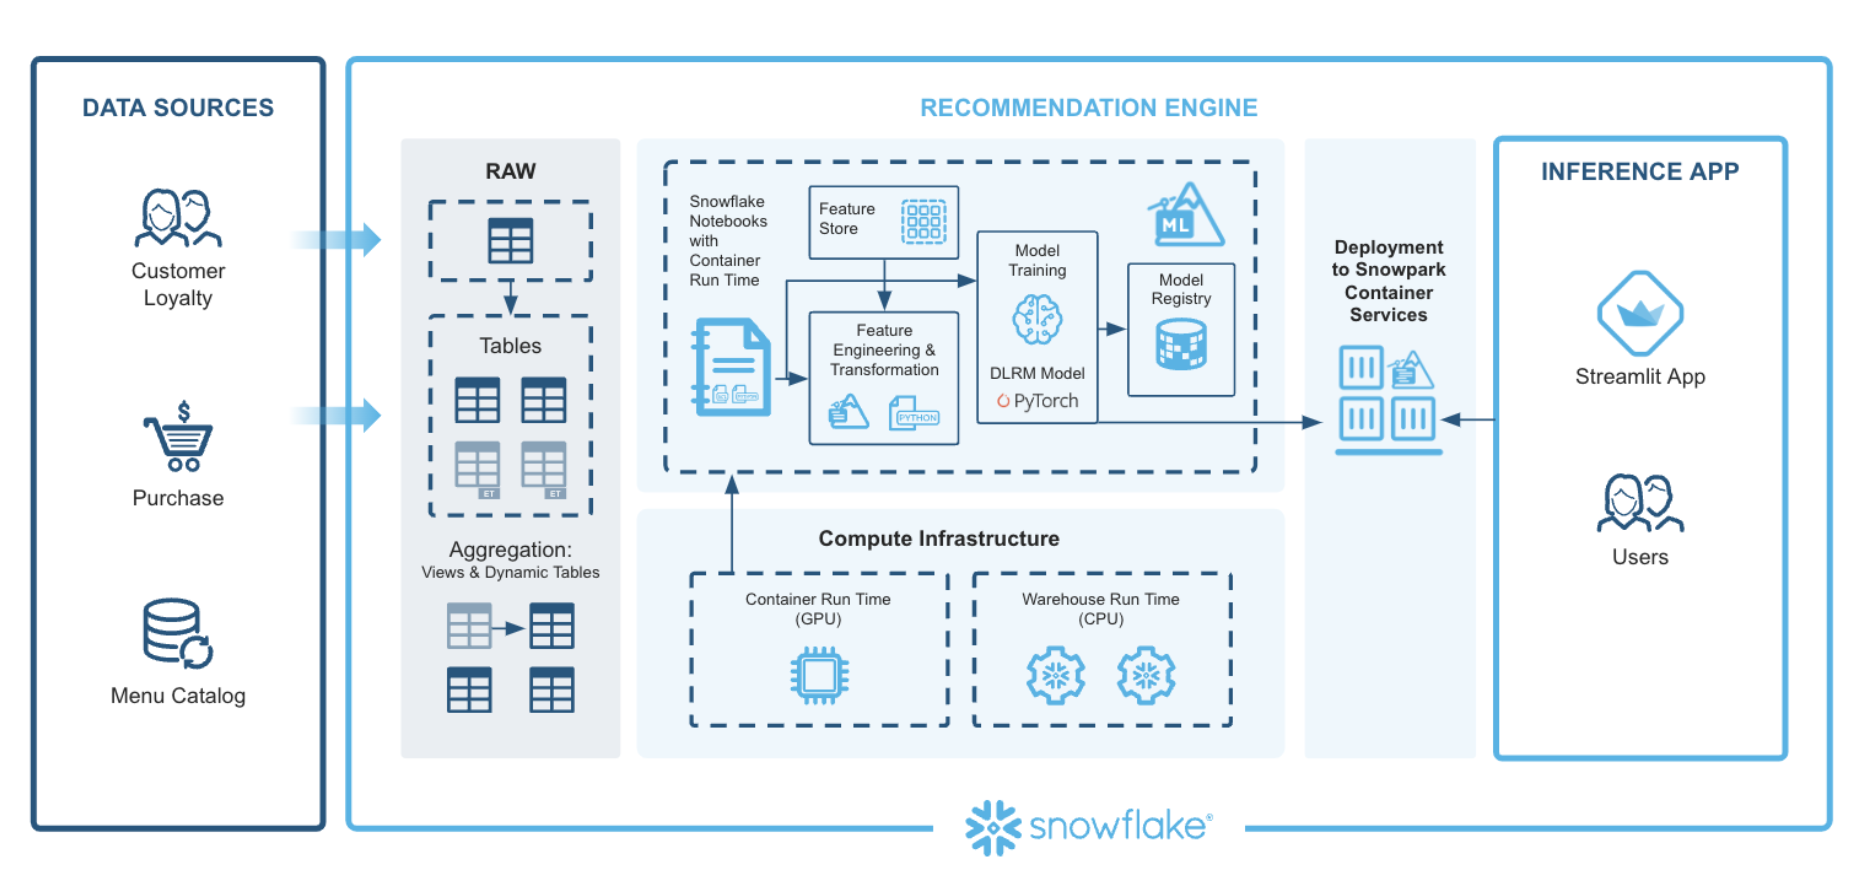
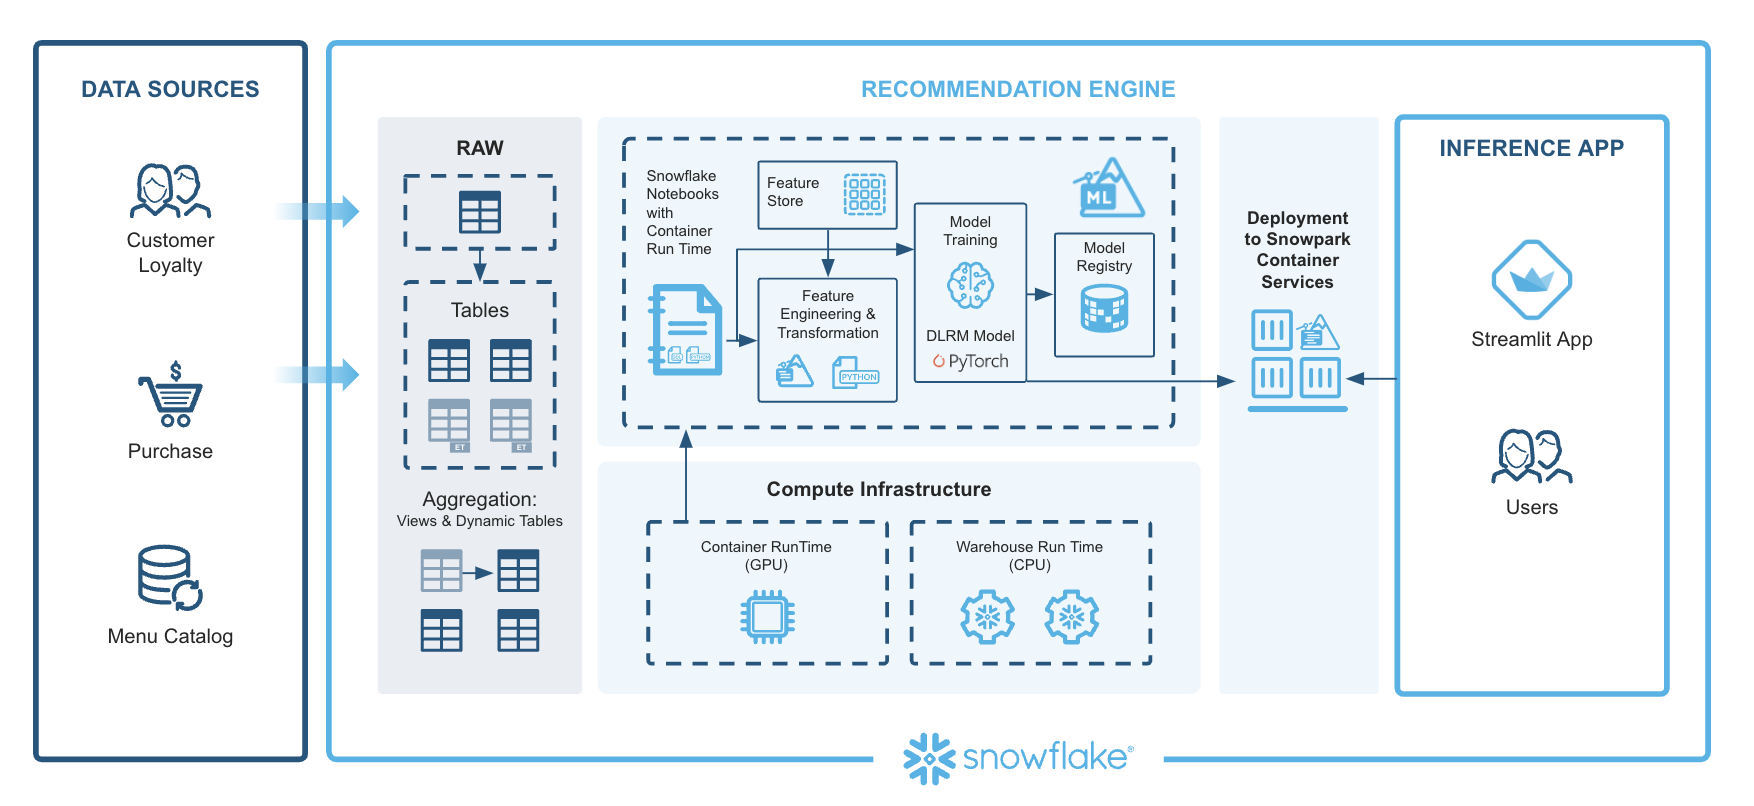
Updating matkdowns

diff --git a/site/sfguides/src/getting-started-with-running-distributed-pytorch-models-on-snowflake/getting-started-with-running-distributed-pytorch-models-on-snowflake.md b/site/sfguides/src/getting-started-with-running-distributed-pytorch-models-on-snowflake/getting-started-with-running-distributed-pytorch-models-on-snowflake.md
@@ -14,16 +14,16 @@ Duration: 3
 
 <img src="assets/TB_EndToEndML_banner.png"/>
 
-This solution generates upsell and cross-sell recommendations to increase sales for the Tasty Bytes business. This involves:
+This solution generates upsell and cross-sell recommendations to increase sales for the Tasty Bytes business. In this quickstart, we will walk through how to build an end-to-end Pytorch recommendation model using Snowflake ML. This involves:
 
 - Extracting features from customer, menu, and purchase history.
-- Preprocessing data using the Snowpark ML library.
+- Preprocessing data.
 - Training a PyTorch DLRM model with distributed processing on GPUs.
-- Registering the model and deploying it to a container runtime environment.
+- Registering the model and serving it for inference with GPUs in containers.
 - Running predictions and visualizing recommendations on Streamlit.
 - Displaying personalized menu item recommendations along with purchase history in a Streamlit app.
 
-In addition, this end-to-end ML solution using Snowflake ML and Notebooks aims to address the common challenges in building ML workflows, such as:
+In addition, this end-to-end ML solution using Snowflake ML aims to address the common challenges in building ML workflows, such as:
 
 **Eliminating Silos and Governance Challenges:** Ensuring a seamless and integrated environment for ML development, from data processing to model serving, to tackle the issue of isolated workflows and governance difficulties.
 
@@ -37,14 +37,14 @@ In addition, this end-to-end ML solution using Snowflake ML and Notebooks aims t
 
 ### Prerequisites
 - Privileges necessary to create a user, database, and warehouse in Snowflake
-- Access to run Notebooks in Snowflake
-- Container Runtime Enabled in the Account
+- A non-trial Snowflake account in a supported [AWS commercial region](https://docs.snowflake.com/en/developer-guide/snowpark-container-services/overview#available-regions).
+- A Snowflake account login with a role that has the ACCOUNTADMIN role. If not, you will need to work with your ACCOUNTADMIN to perform the initial account setup (e.g. creating the CONTAINER_USER_ROLE and granting required privileges, as well as creating the EXTERNAL ACCESS INTEGRATION).
 
 ### What You Will Learn
 - How to extract features from customer, menu, and purchase history.
 - How to preprocess data using the Snowpark ML library.
 - How to train a PyTorch DLRM model with distributed processing on GPUs.
-- How to register the model and deploy it to a container runtime environment.
+- How to register the model and deploy it to Snowflake’s Container Runtime (public preview).
 - How to run predictions and visualize recommendations on Streamlit.
 - How to display personalized menu item recommendations along with purchase history in a Streamlit app.
 
@@ -53,11 +53,14 @@ In addition, this end-to-end ML solution using Snowflake ML and Notebooks aims t
 - A [Snowflake](https://app.snowflake.com/) Account with Accountadmin access
 
 ### What You Will Build
+From Snowflake Notebooks on Container Runtime (public preview), you will complete the following in this quickstart: 
+
 - A feature extraction pipeline from customer, menu, and purchase history.
-- A preprocessing pipeline using the Snowpark ML library.
+- A preprocessing pipeline.
 - A trained PyTorch DLRM model with distributed processing on GPUs.
-- A deployed model in a container runtime environment.
-- A Streamlit app for running predictions and visualizing recommendations.
+- A model served for inference in containers.
+
+Afterward, we will also show you how to build a Streamlit app for running predictions and visualizing recommendations.
 
 ## Setup Environment
 Duration: 10
@@ -69,17 +72,17 @@ Run the SQL from the [file](https://github.com/Snowflake-Labs/sfguide-getting-st
 ## Architecture
 Duration: 3
 
-The architecture of the Tasty Bytes ML solution is designed to generate personalized upsell and cross-sell recommendations. Here’s a detailed walkthrough of how each component and process comes together to achieve this:
+The architecture of the Tasty Bytes ML solution is designed to generate personalized upsell and cross-sell recommendations. Here's a detailed walkthrough of how we use components of Snowflake ML to complete this workflow:
 
 <img src="assets/Architecture.png"/>
 
 **Extracting Features:** This begins with the ingestion of data into Snowflake. Data sources include customer profiles, menu details, and purchase histories. Snowflake Notebooks can be leveraged to provide an integrated development environment where SQL and Python are used to query, manipulate, and prepare the data. The team automates the extraction of relevant features, ensuring that data from various sources is consolidated and ready for subsequent steps.
 
-**Preprocessing Data Using the Snowpark ML Library:** Next, the extracted data is preprocessed to make it suitable for machine learning. The Snowpark ML library is utilized for this purpose. Using the Snowpark API, the team writes data transformation and feature engineering code in Python. Snowpark's parallel processing capabilities handle large-scale data efficiently, enabling quick and seamless preprocessing. Additionally, the Snowflake Feature Store is used to create and manage reusable features, simplifying the computation of complex aggregations and moving window calculations with simple Python commands. This ensures consistency and efficiency in feature engineering.
+**Preprocessing Data:** Next, the extracted data is preprocessed to make it suitable for machine learning. The Snowflake ML APIs are utilized for this purpose. Using Snowflake ML, the team writes data transformation and feature engineering code in Python. Snowflake’s parallel processing capabilities handle large-scale data efficiently, enabling quick and seamless preprocessing. Additionally, the Snowflake Feature Store is used to create and manage reusable features, simplifying the computation of complex aggregations and moving window calculations with simple Python commands. This ensures consistency and efficiency in feature engineering.
 
-**Training a PyTorch DLRM Model with Distributed Processing on GPUs:** With preprocessed data ready, the model training phase begins. We are using PyTorch Deep Learning Recommendation Model (DLRM), which is well-suited for generating personalized recommendations. Using the Snowpark ML Modeling API, feature transformations are performed and the data is prepared for training. The actual training occurs in the Container Runtime environment, which includes prepackaged environments with popular Python packages and deep learning frameworks like PyTorch. This environment supports GPU nodes, enabling distributed training that scales efficiently without the need for heavy infrastructure management.
+**Training a PyTorch DLRM Model with Distributed Processing on GPUs:** With preprocessed data ready, the model training phase begins. We are using PyTorch Deep Learning Recommendation Model (DLRM), which is well-suited for generating personalized recommendations. Using the Snowflake ML APIs, feature transformations are performed and the data is prepared for training. The actual training occurs in the Container Runtime, which includes prepackaged environments with popular Python packages and deep learning frameworks like PyTorch. This environment supports GPU nodes, enabling distributed training that scales efficiently without the need for heavy infrastructure management.
 
-**Registering the Model and Deploying It to a Container Runtime Environment:** After the model is trained, it is registered and deployed. The Snowflake Model Registry serves as the central hub for managing the model's lifecycle, tracking versions, and maintaining metadata. The trained DLRM model is registered here, making it ready for deployment. Deployment is managed by the Container Runtime environment, ensuring consistency between development and production. This environment maintains the same packages and configurations, allowing the model to be deployed seamlessly on Snowflake WH or container services.
+**Registering the Model and Serving It in Containers with GPUs:** After the model is trained, it is registered and deployed. The Snowflake Model Registry serves as the central hub for managing the model's lifecycle, tracking versions, and maintaining metadata. The trained DLRM model is registered here, making it ready for deployment. Deployment is fully managed by Snowflake , ensuring consistency between development and production. This environment maintains the same packages and configurations, allowing the model to be deployed seamlessly on Snowflake warehouses or Snowpark Container Services for access to GPUs.
 
 **Running Predictions and Visualizing Recommendations on Streamlit:** With the model deployed, predictions are generated. The deployed model processes incoming data to produce personalized upsell and cross-sell recommendations. To make these insights accessible, we are leveraging Streamlit to build interactive dashboards. Streamlit provides a user-friendly interface where business users can explore the model’s predictions and visualizations. This interactive platform makes it easy to understand and act upon the insights generated by the model.
 
@@ -145,7 +148,7 @@ When you click the **Get Recommendations** button, the application filters the d
 
 ### What You Learned
 - How to extract features from customer, menu, and purchase history.
-- How to preprocess data using the Snowpark ML library.
+- How to preprocess data.
 - How to train a PyTorch DLRM model with distributed processing on GPUs.
 - How to register the model and deploy it to a container runtime environment.
 - How to run predictions and visualize recommendations on Streamlit.
@@ -157,6 +160,6 @@ When you click the **Get Recommendations** button, the application filters the d
 - [Blog](https://medium.com/snowflake/running-distributed-pytorch-models-on-snowflake-an-end-to-end-ml-solution-452d16a39553)
 - [Solution Center](https://developers.snowflake.com/solution/running-distributed-pytorch-models-on-snowflake-an-end-to-end-ml-solution/)
 - [Notebooks on Container Runtime](https://docs.snowflake.com/en/user-guide/ui-snowsight/notebooks-on-spcs)
-- [Snowpark ML](https://docs.snowflake.com/en/developer-guide/snowflake-ml/overview)
 - [Feature Store](https://docs.snowflake.com/en/developer-guide/snowflake-ml/feature-store/overview)
 - [Model Registry](https://docs.snowflake.com/developer-guide/snowflake-ml/model-registry/overview?utm_cta=snowpark-dg-hero-card)
+- [Snowflake ML Webpage](https://www.snowflake.com/en/data-cloud/snowflake-ml/)
